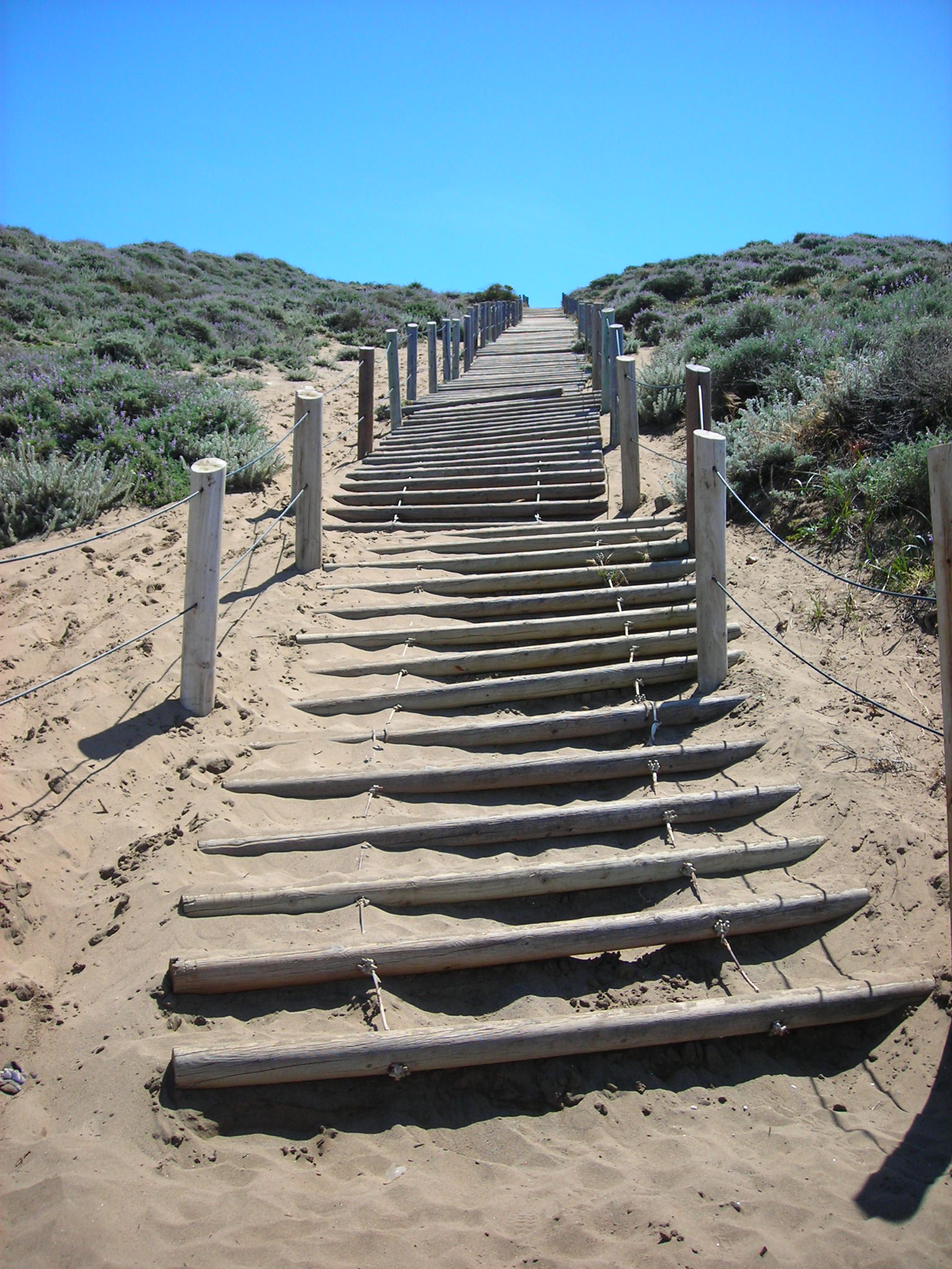
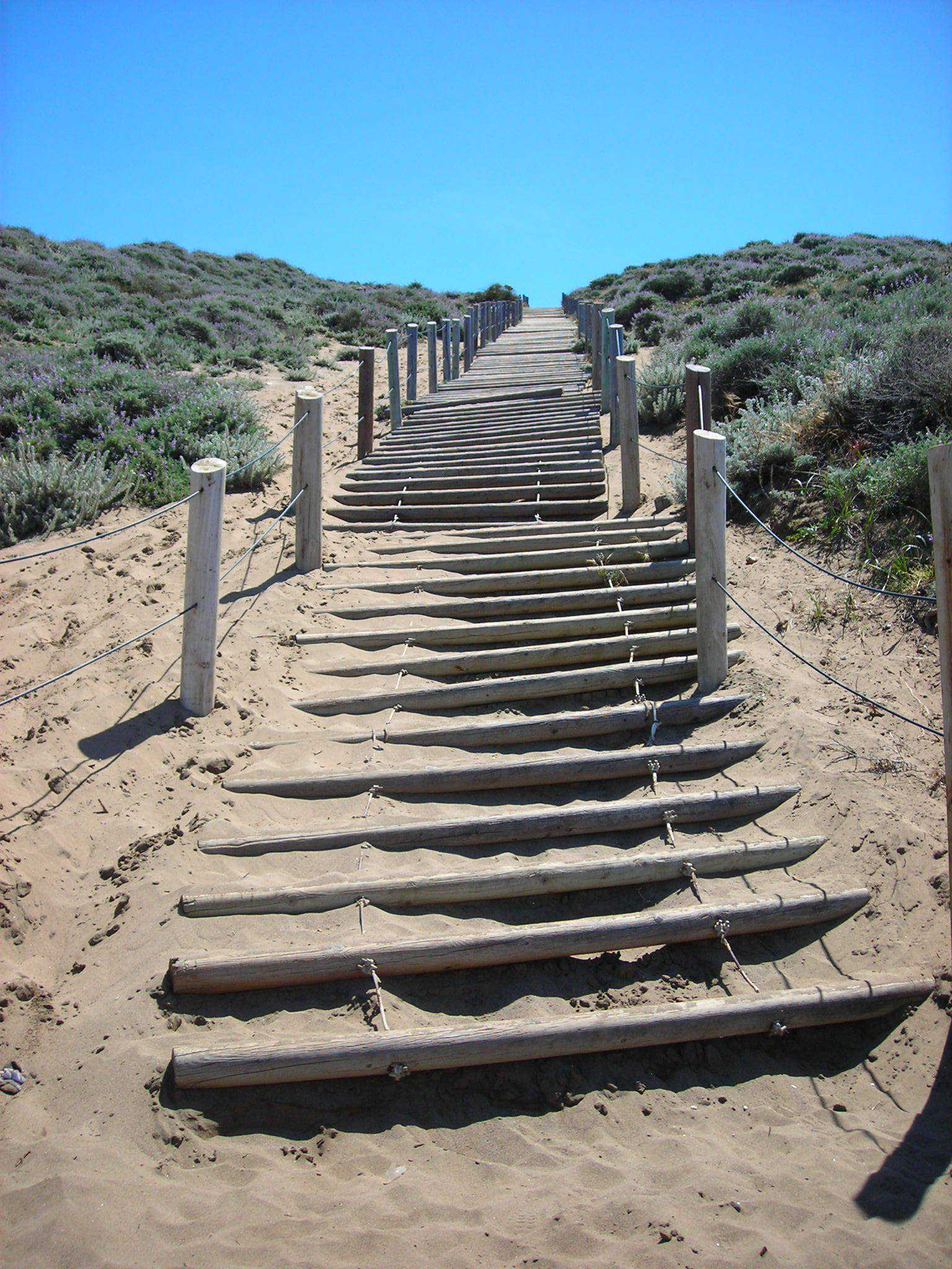
Use smaller stairs jpg image

diff --git a/css/styles.css b/css/styles.css
@@ -34,7 +34,7 @@ body {
 }
 
 .background{
-	background-image:url(../assets/stairs2.png);
+	background-image:url(../assets/stairs.jpg);
 	background-repeat:no-repeat;
 	background-attachment: fixed;
 	background-size: cover;
